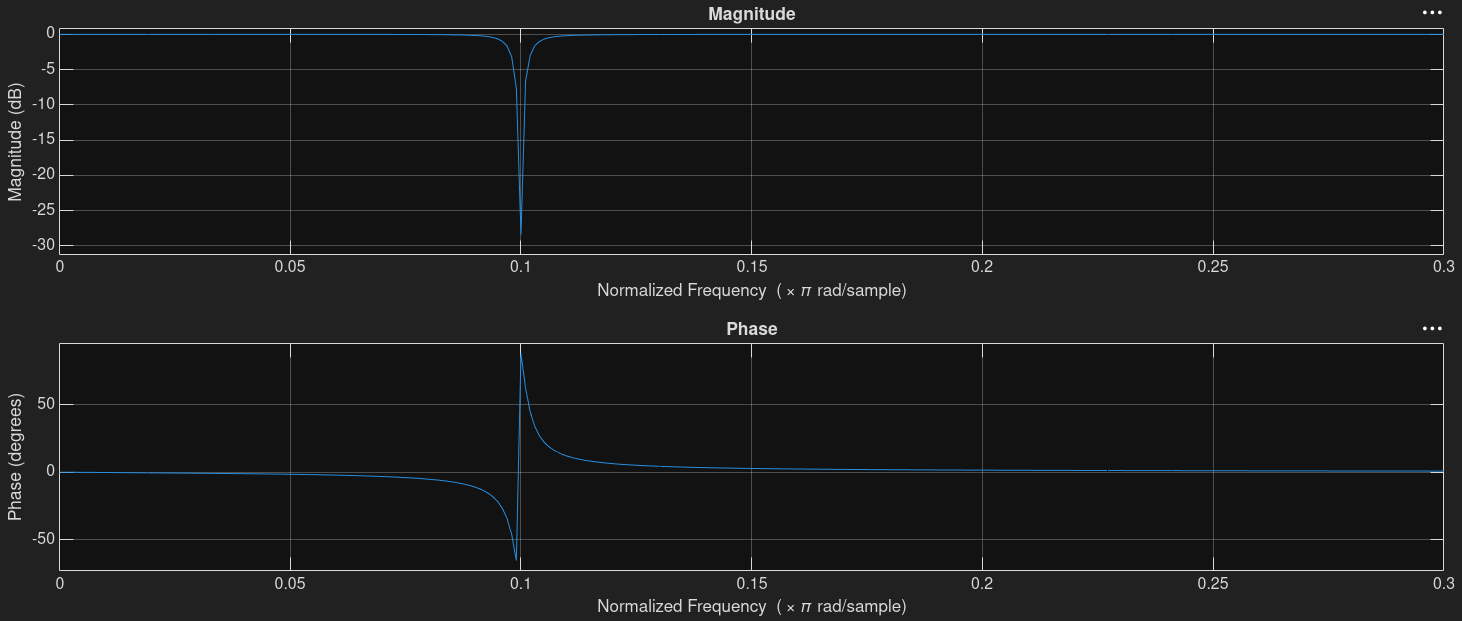
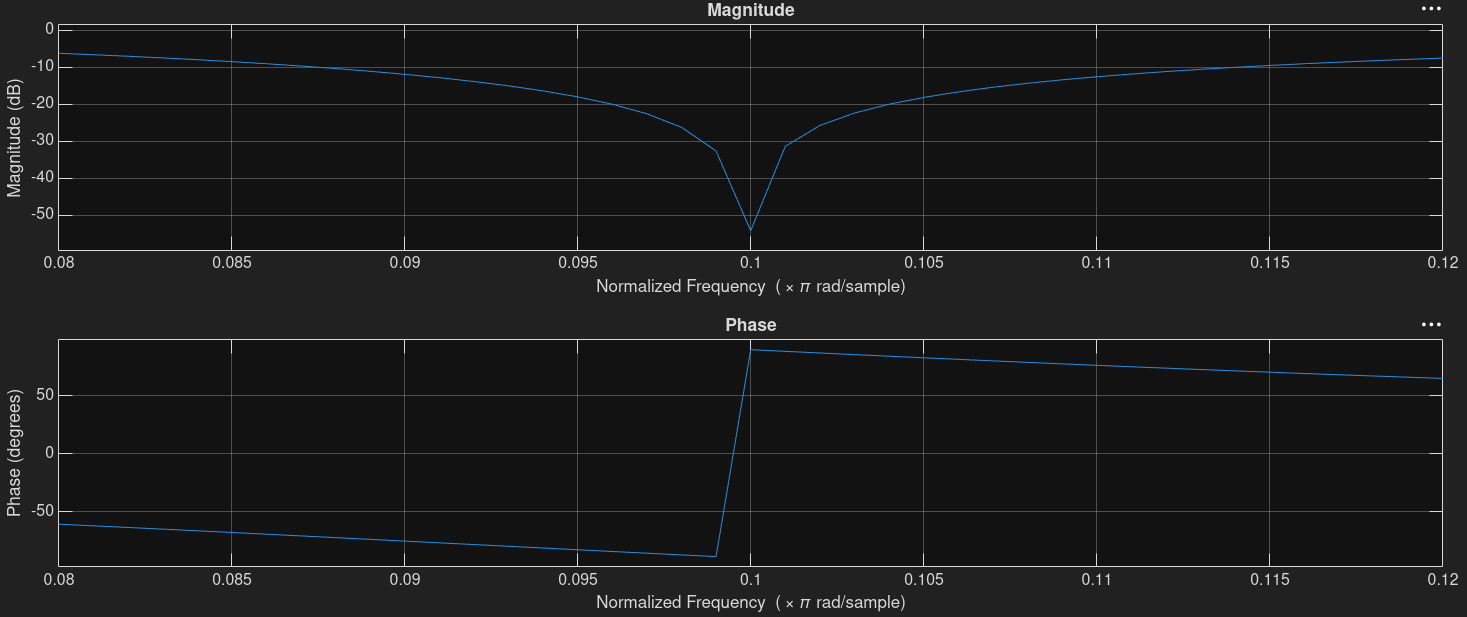
05 first part draft done

diff --git a/05/latex/lab5-vogt.tex b/05/latex/lab5-vogt.tex
@@ -11,6 +11,7 @@
 \graphicspath{{./figure}}
 \usepackage{caption}
 \captionsetup{format=plain}
+\usepackage{subcaption}
 \usepackage{listings}
 \usepackage{trimclip}
 % \usepackage{xspace}
@@ -205,6 +206,64 @@ Both filters have a jump in phase around the center of the stop-band. The manual
 drops more sharply (in theory reaching $-\infty\,\si{\dB}$) in the center of the stop-band because it
 has a zero there, whereas the butterworth-type filter has a finite minimum.
 
+
+
+\subsection{Other Filter Types}
+There are several more filter types supported by Matlab. Among them are
+\begin{itemize}
+  \item Chebyshev type I: \texttt{cheby1(n,Rp,Wn,'stop');} \\defined with pass-band ripple \texttt{Rp} in \si{\dB}.
+  \item Chebyshev type I:  \texttt{cheby2(n,Rs,Wn,'stop');} \\defined with stop-band attenuation \texttt{Rs} in \si\dB.
+  \item Elliptical:  \texttt{ellip(n,Rp,Rs,Wn,'stop');} \\defined with both \texttt{Rp} and \texttt{Rs}.
+\end{itemize}
+For each of these filters we replace the function \texttt{butter(\dots)} in \figref{code:stopband2-code}  
+with one of the above, choosing \texttt{Rp = 2} and \texttt{Rs = 20}.
+Also, we again choose \texttt{n = 1} which results in second-order polynomials.
+The transfer functions are shown in \figref{fig:stopband3-freqz}.
+\begin{figure}[h]
+  \centering
+  \begin{subfigure}{.9\textwidth}
+    \centering
+    \includegraphics[width=\textwidth]{stopband3ch1-freqz}
+    \subcaption{
+      Chebyshev type I filter.
+    }
+    \label{fig:stopband3ch1-freqz}
+  \end{subfigure}
+  \begin{subfigure}{.9\textwidth}
+    \centering
+    \includegraphics[width=\textwidth]{stopband3ch2-freqz}
+    \subcaption{
+      Chebyshev type II filter.
+    }
+    \label{fig:stopband3ch2-freqz}
+  \end{subfigure}
+  \begin{subfigure}{.9\textwidth}
+    \centering
+    \includegraphics[width=\textwidth]{stopband3ellip-freqz}
+    \subcaption{
+      Elliptical filter.
+    }
+    \label{fig:stopband3ellip-freqz}
+  \end{subfigure}
+  \caption{Transfer functions of three different kinds of stop-band filters.
+    The frequency ranges of the plots are chosen close to the stop-band
+    to emphasize differences in the frequency response.}
+  \label{fig:stopband3-freqz}
+\end{figure}
+
+The Chebyshev type I and elliptical filter are identical (this can be seen by looking at the plots and by inspecting
+the polynomial coefficients). When changing the \texttt{Rs} value for the elliptical filter, we see that
+the coefficients always stay the same, so at this order and with \texttt{Rp = 2} the stop-band attenuation
+actually has no impact on the elliptical filter and it is identical to a Chebyshev type I filter.
+
+The Chebyshev type II filter reaches a much lower gain ($\sim\SI{-50}{\dB}$) than the other two but
+also has a much slower rise away from the stop band. In fact, it does not adhere to the provided breaking points
+which likely means that the chosen filter order was too low.
+  % \texttt{[b, a] = butter(n, Wn, 'stop');}
+
+
+
+\section{Sampling an EKG signal}
 
 
 